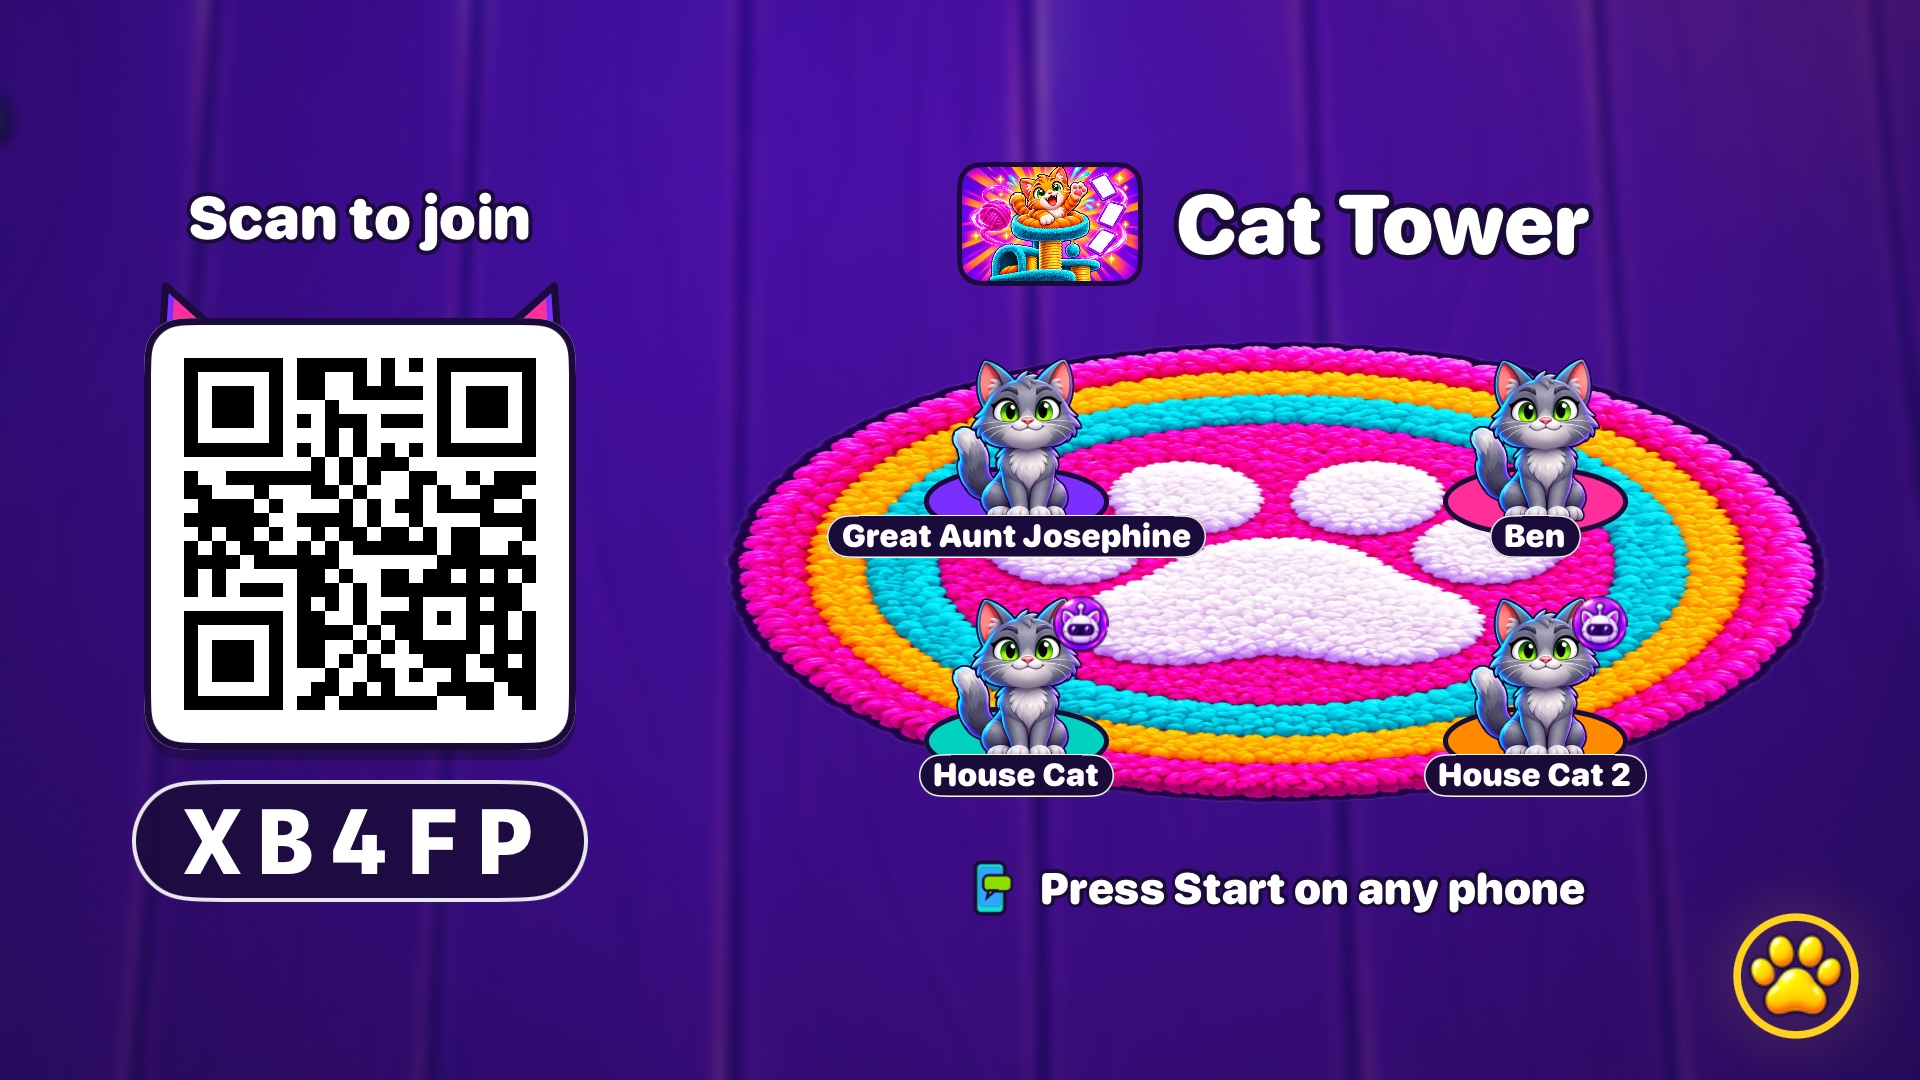
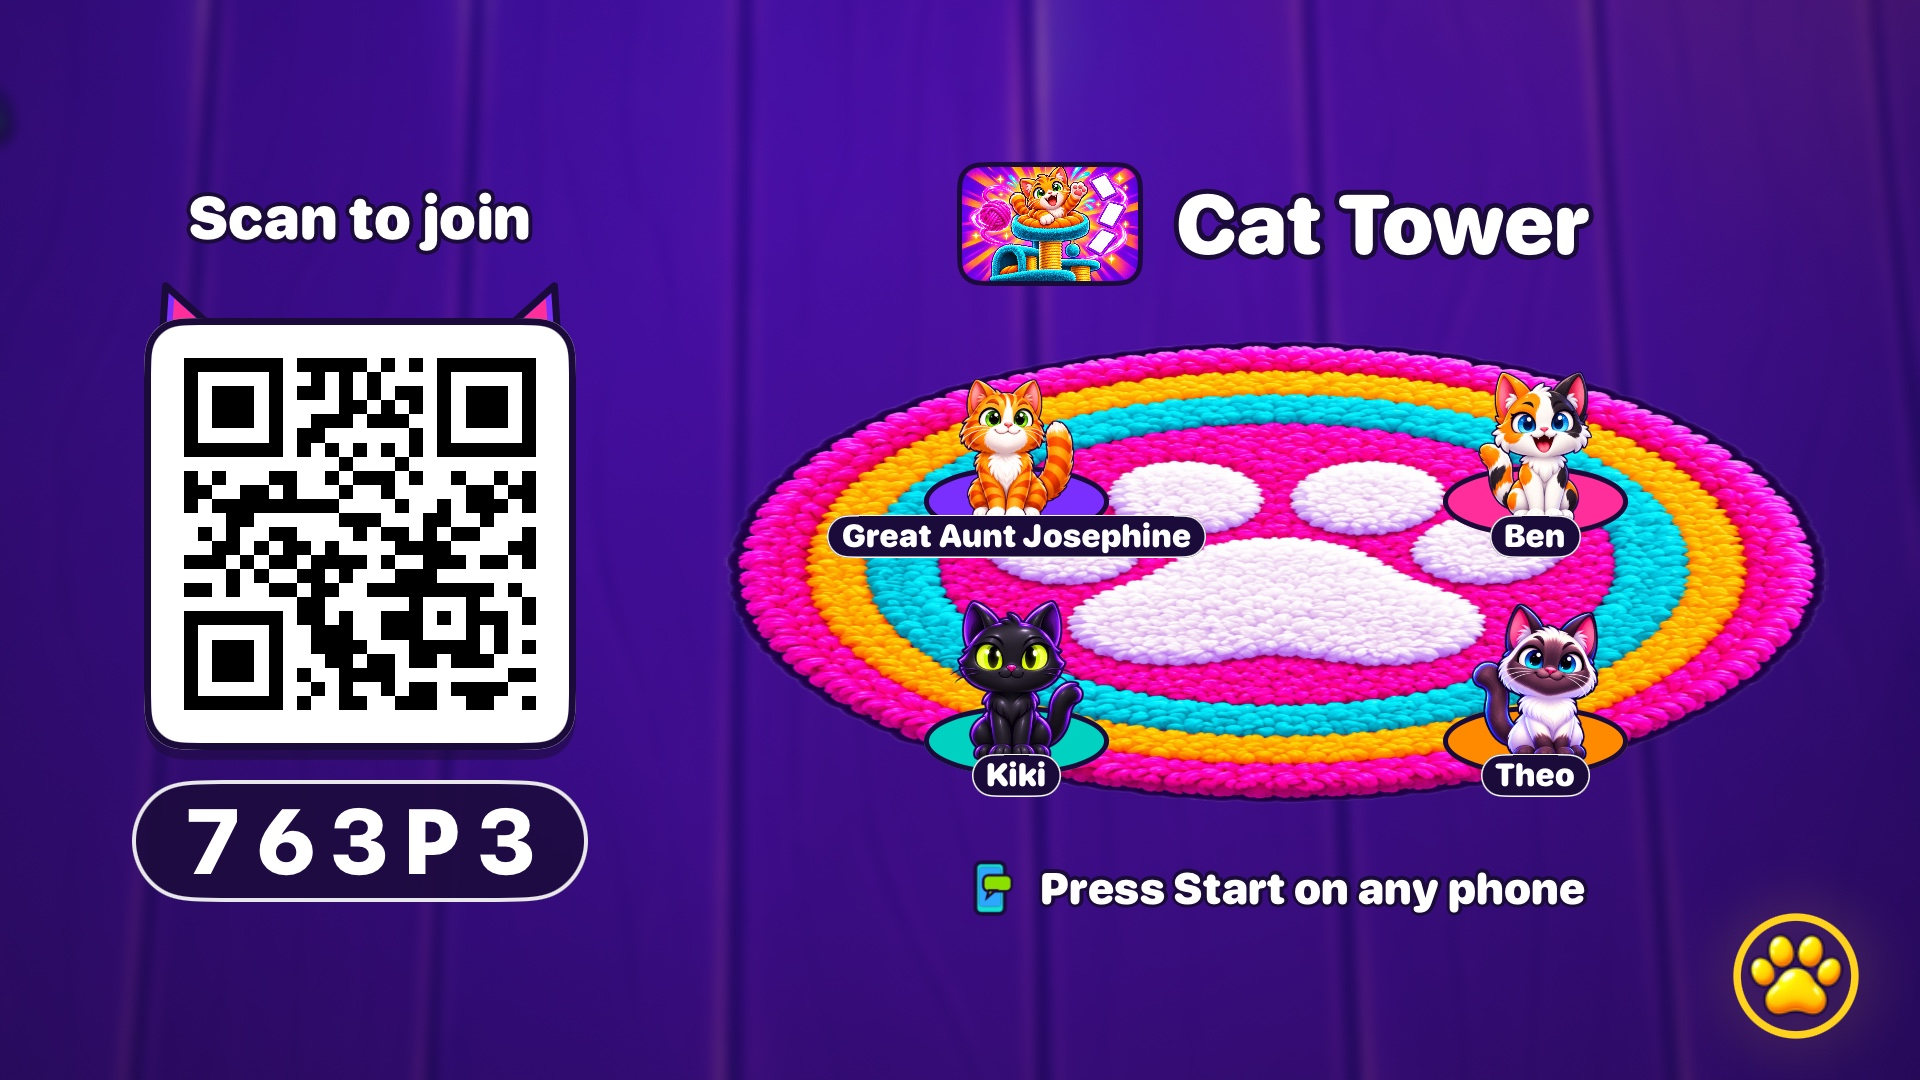
Apple TV: store notes match the app

diff --git a/apps/play-ios/AppStore/tv-live.spec.ts b/apps/play-ios/AppStore/tv-live.spec.ts
@@ -1,26 +1,30 @@
-// Plays the Apple TV's home, lobby and game over for the App Store screenshots: the Debug PounceTV
-// app on an Apple TV simulator is the TV, and browser phones (Playwright) link it, join, start and
-// leave, against your own dev server. Writes PNGs to RAW (default AppStore/raw/tv).
-// Not part of any suite; copy it into apps/play-web/ (it imports ../e2e) and run:
-//   pnpm --filter @pounce/play-api exec wrangler dev --port 8820 --ip 127.0.0.1 --persist-to .wrangler/tv-shots \
-//     --var TOKEN_SECRET:<random> --var GAMES:tiles --var LINK:on --var TV:on --var DEV_SPEED:5
-//   TV_SIM=<udid> RAW=<dir> APP=<PounceTV.app> npx playwright test -c <a config with baseURL http://127.0.0.1:8820>
-// Never port 4343. The home shot shows the link code of that dev server.
-import { execFileSync, execSync } from "node:child_process";
-import { existsSync, mkdirSync, readFileSync, writeFileSync } from "node:fs";
+// Plays the Apple TV's home and lobby for the App Store screenshots: the Debug PounceTV app on an
+// Apple TV simulator is the TV, and browser phones (Playwright) link it and join, against your own
+// dev server. Writes PNGs to RAW (default apps/play-ios/AppStore/raw/tv). Not part of any suite.
+// Run from the repo root, never on port 4343:
+//   pnpm --filter @pounce/play-web build        # the web player, into apps/play-api/public/play
+//   cd apps/play-web && cp ../play-ios/AppStore/tv-live.spec.ts e2e/tv-live.spec.ts
+//   (cd ../play-api && pnpm exec wrangler dev --port 8820 --ip 127.0.0.1 --persist-to .wrangler/tv-shots \
+//     --var TOKEN_SECRET:$(openssl rand -hex 32) --var GAMES:tiles --var LINK:on --var TV:on --var DEV_SPEED:5) &
+//   E2E_BASE=http://127.0.0.1:8820 TV_SIM=<udid> APP=<path to PounceTV.app> \
+//     npx playwright test e2e/tv-live.spec.ts --project=laptop-chrome
+//   rm e2e/tv-live.spec.ts    # then stop wrangler and delete .wrangler/tv-shots
+// The home shot shows the link code of that dev server.
+import { execFileSync } from "node:child_process";
+import { mkdirSync, readFileSync, writeFileSync } from "node:fs";
 import { join } from "node:path";
 
 import { devices, expect, test, type Browser, type Page } from "@playwright/test";
 
-import { newPlayer } from "../e2e/helpers";
-import { controllerTurn, forfeit, startFromPhone, tilesTurn } from "../e2e/tv-helpers";
+import { ownAddress } from "./helpers";
 
 const SHOTS = process.env.RAW ?? join(process.cwd(), "../play-ios/AppStore/raw/tv");
 const APP = process.env.APP!;
 const BUNDLE = "com.conleychaos.play";
 const TV4K = process.env.TV_SIM!;
 
-const LOGS = join(process.env.TMPDIR ?? "/tmp", "tv-shots-logs");
+// The app writes its `[tv] link` lines to a file here: not /tmp, which the simulator will not write to.
+const LOGS = join(process.cwd(), "../play-ios/build/tv-shots-logs");
 mkdirSync(SHOTS, { recursive: true });
 mkdirSync(LOGS, { recursive: true });
 
@@ -63,25 +67,7 @@ async function tvLine(tv: Tv, kind: "link" | "table", after = 0): Promise<string
   return found!;
 }
 
-const count = (tv: Tv, kind: string) => readFileSync(tv.err, "utf8").split("\n").filter((l) => l.startsWith(`[tv] ${kind} `)).length;
-
 const pause = (ms: number) => new Promise((r) => setTimeout(r, ms));
-
-/** Holds the dev server's worker still (no frames either way) for `ms`: the TV loses the table. */
-async function serverStall(ms: number, during: () => Promise<void>) {
-  const pids = execSync(`lsof -nP -iTCP -sTCP:LISTEN | awk '$2 ~ /^[0-9]+$/ && $9 ~ /:8800$/ {print $2}' | sort -u`, { encoding: "utf8" }).trim().split("\n").filter(Boolean);
-  // wrangler's own process, and the workerd it runs (its child).
-  const all = new Set<string>(pids);
-  for (const pid of pids) for (const c of execSync(`pgrep -P ${pid} || true`, { encoding: "utf8" }).trim().split("\n").filter(Boolean)) all.add(c);
-  console.log("stalling", [...all].join(","));
-  for (const p of all) execSync(`kill -STOP ${p}`);
-  try {
-    await pause(ms);
-    await during();
-  } finally {
-    for (const p of all) execSync(`kill -CONT ${p}`);
-  }
-}
 
 async function addHouseCats(page: Page, n: number) {
   for (let i = 0; i < n; i++) {
@@ -100,40 +86,47 @@ async function removeHouseCats(page: Page) {
   }
 }
 
-async function phone(browser: Browser, name: string, path: string, device = devices["Pixel 7"]) {
-  return newPlayer(browser, name, { path, context: { ...device } });
+/** A new player in a browser of their own: the age check, a name and the cat at `cat` (0 to 7). */
+async function phone(browser: Browser, name: string, path: string, cat: number, device = devices["Pixel 7"]) {
+  const context = await browser.newContext({ ...device });
+  await ownAddress(context);
+  const page = await context.newPage();
+  await page.goto(path);
+  await expect(page.getByRole("heading", { name: "What year were you born?" })).toBeVisible();
+  for (const d of "1985") await page.getByRole("button", { name: d, exact: true }).click();
+  await page.getByRole("button", { name: "Done" }).click();
+  await page.getByLabel("Your name").fill(name);
+  await page.getByRole("radiogroup", { name: "Your cat" }).getByRole("radio").nth(cat).click();
+  await page.getByRole("button", { name: "Done" }).click();
+  return { context, page };
 }
 
-
-test("store shots: home, lobby, game over", async ({ browser }) => {
+test("store shots: home and lobby", async ({ browser }) => {
   tvReset(TV4K);
   const tv = tvLaunch(TV4K);
   const [, linkURL] = await tvLine(tv, "link");
   await pause(2500);
   shot(tv, "home");
-  const jo = await phone(browser, "Great Aunt Josephine", "/play/");
+  // Great Aunt Josephine scans the TV's code and makes a Cat Tower table on it.
+  const jo = await phone(browser, "Great Aunt Josephine", "/play/", 0);
   await jo.page.goto(new URL(linkURL).pathname);
   await jo.page.getByRole("button", { name: "Play Cat Tower" }).click();
   await expect(jo.page).toHaveURL(/\/play\/t\/[A-Z0-9]{5}$/);
   const code = jo.page.url().split("/").at(-1)!;
   await tvLine(tv, "table");
+  // A first table gets a House Cat a moment after its phone sits: take it off. Open three seats
+  // (a House Cat each), then three more people join, each with a different cat, and take them.
   await expect(jo.page.locator(".lobby-seat.bot")).toBeVisible({ timeout: 8000 }).catch(() => undefined);
   await removeHouseCats(jo.page);
-  const ben = await phone(browser, "Ben", `/play/j/${code}`, devices["iPhone 13"]);
-  await expect(ben.page).toHaveURL(new RegExp(`/play/t/${code}$`));
-  await addHouseCats(jo.page, 2);
-  await pause(3000);
+  await addHouseCats(jo.page, 3);
+  const others = [
+    await phone(browser, "Ben", `/play/j/${code}`, 2, devices["iPhone 13"]),
+    await phone(browser, "Kiki", `/play/j/${code}`, 4),
+    await phone(browser, "Theo", `/play/j/${code}`, 6, devices["iPhone 13"]),
+  ];
+  for (const o of others) await expect(o.page).toHaveURL(new RegExp(`/play/t/${code}$`));
+  await expect(jo.page.locator(".lobby-seat.human")).toHaveCount(4, { timeout: 15_000 });
+  await pause(4000);
   shot(tv, "lobby");
-  await removeHouseCats(jo.page);
-  await addHouseCats(jo.page, 1);
-  await startFromPhone(jo.page, ben.page);
-  await pause(5000);
-  shot(tv, "table-live");
-  await forfeit(ben.page);
-  await pause(1500);
-  await forfeit(jo.page);
-  await pause(9000);
-  shot(tv, "game-over");
-  await jo.context.close();
-  await ben.context.close();
+  for (const o of [jo, ...others]) await o.context.close();
 });

diff --git a/docs/privacy/app-store-label.md b/docs/privacy/app-store-label.md
@@ -134,10 +134,12 @@ What the TV app does, from the code (`PounceTV/`, `PounceKit/Net`, and the files
 
 - **Device ID.** On first launch it asks the server for a device id (`APIClient.mint`, `POST /v1/devices`) and keeps it in the Keychain (`KeychainCredentialStore`, `PounceTV/App/TVServices.swift`). It is used to open a screen link (`POST /v1/screens`) and the table's screen socket (`role=screen`). Not the IDFA or IDFV. App Functionality.
 - **Analytics (first party).** The server's first-run funnel records the new device when it is made (`apps/play-api/src/index.ts`, `minted`): a keyed hash of the device id, the platform (`tvos`) and the app version, which the TV sends in `X-Pounce-App`. The TV opens no `Funnel` or profile calls, and a screen socket is not counted as the device being active (`if (!screen)` in `index.ts`). So the TV adds `tvos` and its version to the rows already declared under Device ID, Product Interaction and Other Data Types.
+- **Gameplay Content.** The TV makes tables (`APIClient.createRoom(game:screen:)`, `POST /v1/rooms` with `screen: true`), and the server keeps its device id in the table's `screens` (`apps/play-api/src/index.ts:249`, `room/core.ts:374`). Tables are what the iPhone label means by Gameplay Content. App Functionality.
+- **App version.** The server's device index keeps `app_version` from the screen socket (`index.ts:285`, `room/device-index.ts:134`), so Other Data Types also has App Functionality.
 - **Nothing else.** The TV has no player name, age band, phone number, push token, camera, microphone, location or time zone. It asks for no permissions. It sends no table names or text. It keeps a table code and the sound setting on the device only (`UserDefaults`, `DefaultsScreenKeep`).
 - **Not tracking.** No ad SDK, no IDFA, no tracking domains.
 
-The TV's manifest declares Device ID (App Functionality, Analytics), Product Interaction (Analytics) and Other Data Types (App Functionality, Analytics), all linked and none for tracking, plus these required-reason APIs:
+The TV's manifest declares Device ID (App Functionality, Analytics), Gameplay Content (App Functionality), Product Interaction (Analytics) and Other Data Types (App Functionality, Analytics), all linked and none for tracking, plus these required-reason APIs:
 
 - `NSPrivacyAccessedAPICategoryUserDefaults`, reason `CA92.1`: the app's own settings and table code (`Pounce/Design/Settings.swift`, `PounceKit/IO/ScreenKeep.swift`).
 - `NSPrivacyAccessedAPICategorySystemBootTime`, reason `35F9.1`: elapsed time for animation and the frame budget (`CACurrentMediaTime`, `ContinuousClock`, `clock_gettime_nsec_np` in `Pounce/Table`, `Pounce/Tiles` and `Pounce/App/FrameWork.swift`).

diff --git a/apps/play-ios/AppStore/README.md b/apps/play-ios/AppStore/README.md
@@ -8,7 +8,7 @@ messages, no server); nothing is drawn by hand except the caption and the backgr
 | --- | --- |
 | `screenshots/iphone-1.jpg` … `6` | 1206x2622, the required iPhone set (Dynamic Island, medium display; iPhone 17 Pro) |
 | `screenshots/ipad-1.jpg` … `6` | 2064x2752, the 13" iPad set |
-| `screenshots/tv-1.jpg` … `5` | 1920x1080, the Apple TV set (home, lobby, Cat Tower, Tuna Tiles, game over) |
+| `screenshots/tv-1.jpg` … `4` | 1920x1080, the Apple TV set so far (home, lobby, Cat Tower, Tuna Tiles; game over comes later) |
 | `previews/iphone-preview.mp4` | 886x1920, 25.4 s (recorded on an iPhone 17 Pro Max, cut to the size the iPhone slot takes) |
 | `previews/ipad-preview.mp4` | 1200x1600, 25.4 s |
 | `captions.json`, `captions.md` | The captions and what backs each one |
@@ -90,20 +90,20 @@ swift AppStore/tv-brand.swift --preview /tmp/tv    # also writes each icon flatt
 
 ## Apple TV screenshots
 
-The five Apple TV shots (`screenshots/tv-N.jpg`, 1920x1080, from an "Apple TV 4K (3rd generation)
+The four Apple TV shots (`screenshots/tv-N.jpg`, 1920x1080, from an "Apple TV 4K (3rd generation)
 (at 1080p)" simulator; App Store Connect also takes 3840x2160) are the Debug PounceTV build's real
 screens, with no caption or background. The two tables come from the build's own preview, with no
-server. Home, the lobby and game over need a TV that is linked to a table, so a dev server and
+server. Home and the lobby need a TV that is linked to a table, so a dev server and
 browser phones play them.
 
 ```sh
 xcodebuild -project Pounce.xcodeproj -scheme PounceTV -destination "platform=tvOS Simulator,id=<udid>" build
 xcrun simctl install <udid> <DerivedData>/Build/Products/Debug-appletvsimulator/PounceTV.app
 AppStore/capture-tv.sh <udid>        # raw/tv/cattower.png, tiles.png (tv-3, tv-4)
-# raw/tv/home.png, lobby.png, game-over.png (tv-1, tv-2, tv-5): AppStore/tv-live.spec.ts, run from
-# apps/play-web against your own dev server (the header says how); never port 4343.
+# raw/tv/home.png, lobby.png (tv-1, tv-2): AppStore/tv-live.spec.ts, against your own dev server
+# (its header says how); never port 4343.
 sips -s format jpeg -s formatOptions 92 AppStore/raw/tv/<name>.png --out AppStore/screenshots/tv-<n>.jpg
 ```
 
-Game over is a forfeit: no argument of the Debug build's preview shows it, so two phones leave a
-three-seat table and the House Cat wins. Delete the simulator afterwards.
+Game over is not here yet: no argument of the Debug build's preview shows it. Delete the simulator
+afterwards.

diff --git a/docs/app-review-notes.md b/docs/app-review-notes.md
@@ -27,7 +27,7 @@ SIGN IN WITH APPLE (optional)
 Signing in keeps your streaks if you change phones. Find it in Settings (the gear on Home), or on Home after you have played with someone. Adults and teens only. Settings also has the privacy policy and account deletion.
 
 APPLE TV (no iPhone needed)
-The Apple TV app has no age check and no sign-in. On Home, select Cat Tower or Tuna Tiles. The TV shows a table code and a QR code ("Scan to join"). On any browser, open play.conleychaos.com/play, tap "Join a table" and type the code (or scan the QR code). In the browser, tap "Add a player", then "House Cat", then Start. The TV shows the whole table; the browser holds the cards. Menu on the remote opens the TV's menu.
+The Apple TV app has no age check and no sign-in. On Home, select Cat Tower or Tuna Tiles. The TV shows a table code and a QR code ("Scan to join"). On any browser, open play.conleychaos.com/play. A new browser asks the birth year (type 1980) and a name. Then tap "Join" and type the code (or scan the QR code). Tap "Add a player", then "House Cat", then Start. The TV shows the whole table; the browser holds the cards. Menu (Back) on the remote opens the TV's menu.
 
 UNDER 13 ("kittens") AND PARENT CONSENT
 If the year typed means under 13, the device is limited: the name comes from a list (dice), there is no sign-in, no share links, and no push notifications from the server. Local turn reminders still work, because nothing leaves the device.

diff --git a/apps/play-ios/README.md b/apps/play-ios/README.md
@@ -512,10 +512,11 @@ train.
 
 Status: in TestFlight testing (Family and Friends), not on the App Store yet. It is a screen, not a
 player: it shows the whole table (Cat Tower or Tuna Tiles) and never a hand, and everyone plays
-from a phone (the iPhone app or the web player). Its privacy manifest and the label note are in
-`docs/privacy/app-store-label.md`; its App Review notes are in `docs/app-review-notes.md`; its
-store screenshots (`AppStore/screenshots/tv-1.jpg` to `tv-5.jpg`, 1920x1080) are made by
-`AppStore/capture-tv.sh` and `AppStore/tv-live.spec.ts` (see `AppStore/README.md`).
+from a phone (the iPhone app or the web player). Its privacy manifest is
+`PounceTV/Resources/PrivacyInfo.xcprivacy`, with the label note in `docs/privacy/app-store-label.md`;
+its App Review notes are in `docs/app-review-notes.md`; its store screenshots
+(`AppStore/screenshots/tv-1.jpg` to `tv-4.jpg`, 1920x1080) are made by `AppStore/capture-tv.sh` and
+`AppStore/tv-live.spec.ts` (see `AppStore/README.md`).
 
 It also shares the iPhone's table: `Pounce/Table` and `Pounce/Tiles` (less the tile game's iPhone
 screens, `TilesStage` and `TilesChrome`, and its demo), the frame tooling the scenes report to

diff --git a/README.md b/README.md
@@ -13,8 +13,9 @@ The games:
   shelf. Yarn is wild, and a Cucumber makes the next cat skip a turn.
 - **Tuna Tiles**: tile rummy for two to four. Yarn is wild here too.
 
-An Apple TV app (in TestFlight testing, not on the App Store yet) puts the whole table on the TV; everyone
-plays from a phone, in the app or in the browser. See [apps/play-ios](apps/play-ios/README.md#the-apple-tv-app).
+An Apple TV app (in TestFlight, not on the App Store yet) puts the whole table on the TV;
+everyone plays from a phone, in the app or in the browser. See
+[apps/play-ios](apps/play-ios/README.md#the-apple-tv-app).
 
 No ads, no chat, no public profiles, and no account needed to play. Children under 13 get a limited
 version, and a parent decides whether they get turn alerts.

diff --git a/docs/whats-new/1.2.md b/docs/whats-new/1.2.md
@@ -6,8 +6,6 @@ Pasted into App Store Connect (the 1.2 version, What's New in This Version). Kee
 
 Pounce on the TV. Put the table on a big screen and gather round.
 
-New Apple TV app: pick a game on the TV, and everyone joins from their phone.
-
 Your phone shows just your cards. Tap Table any time to see the whole board.
 
 Show on TV: scan the code on the TV, or type it.
